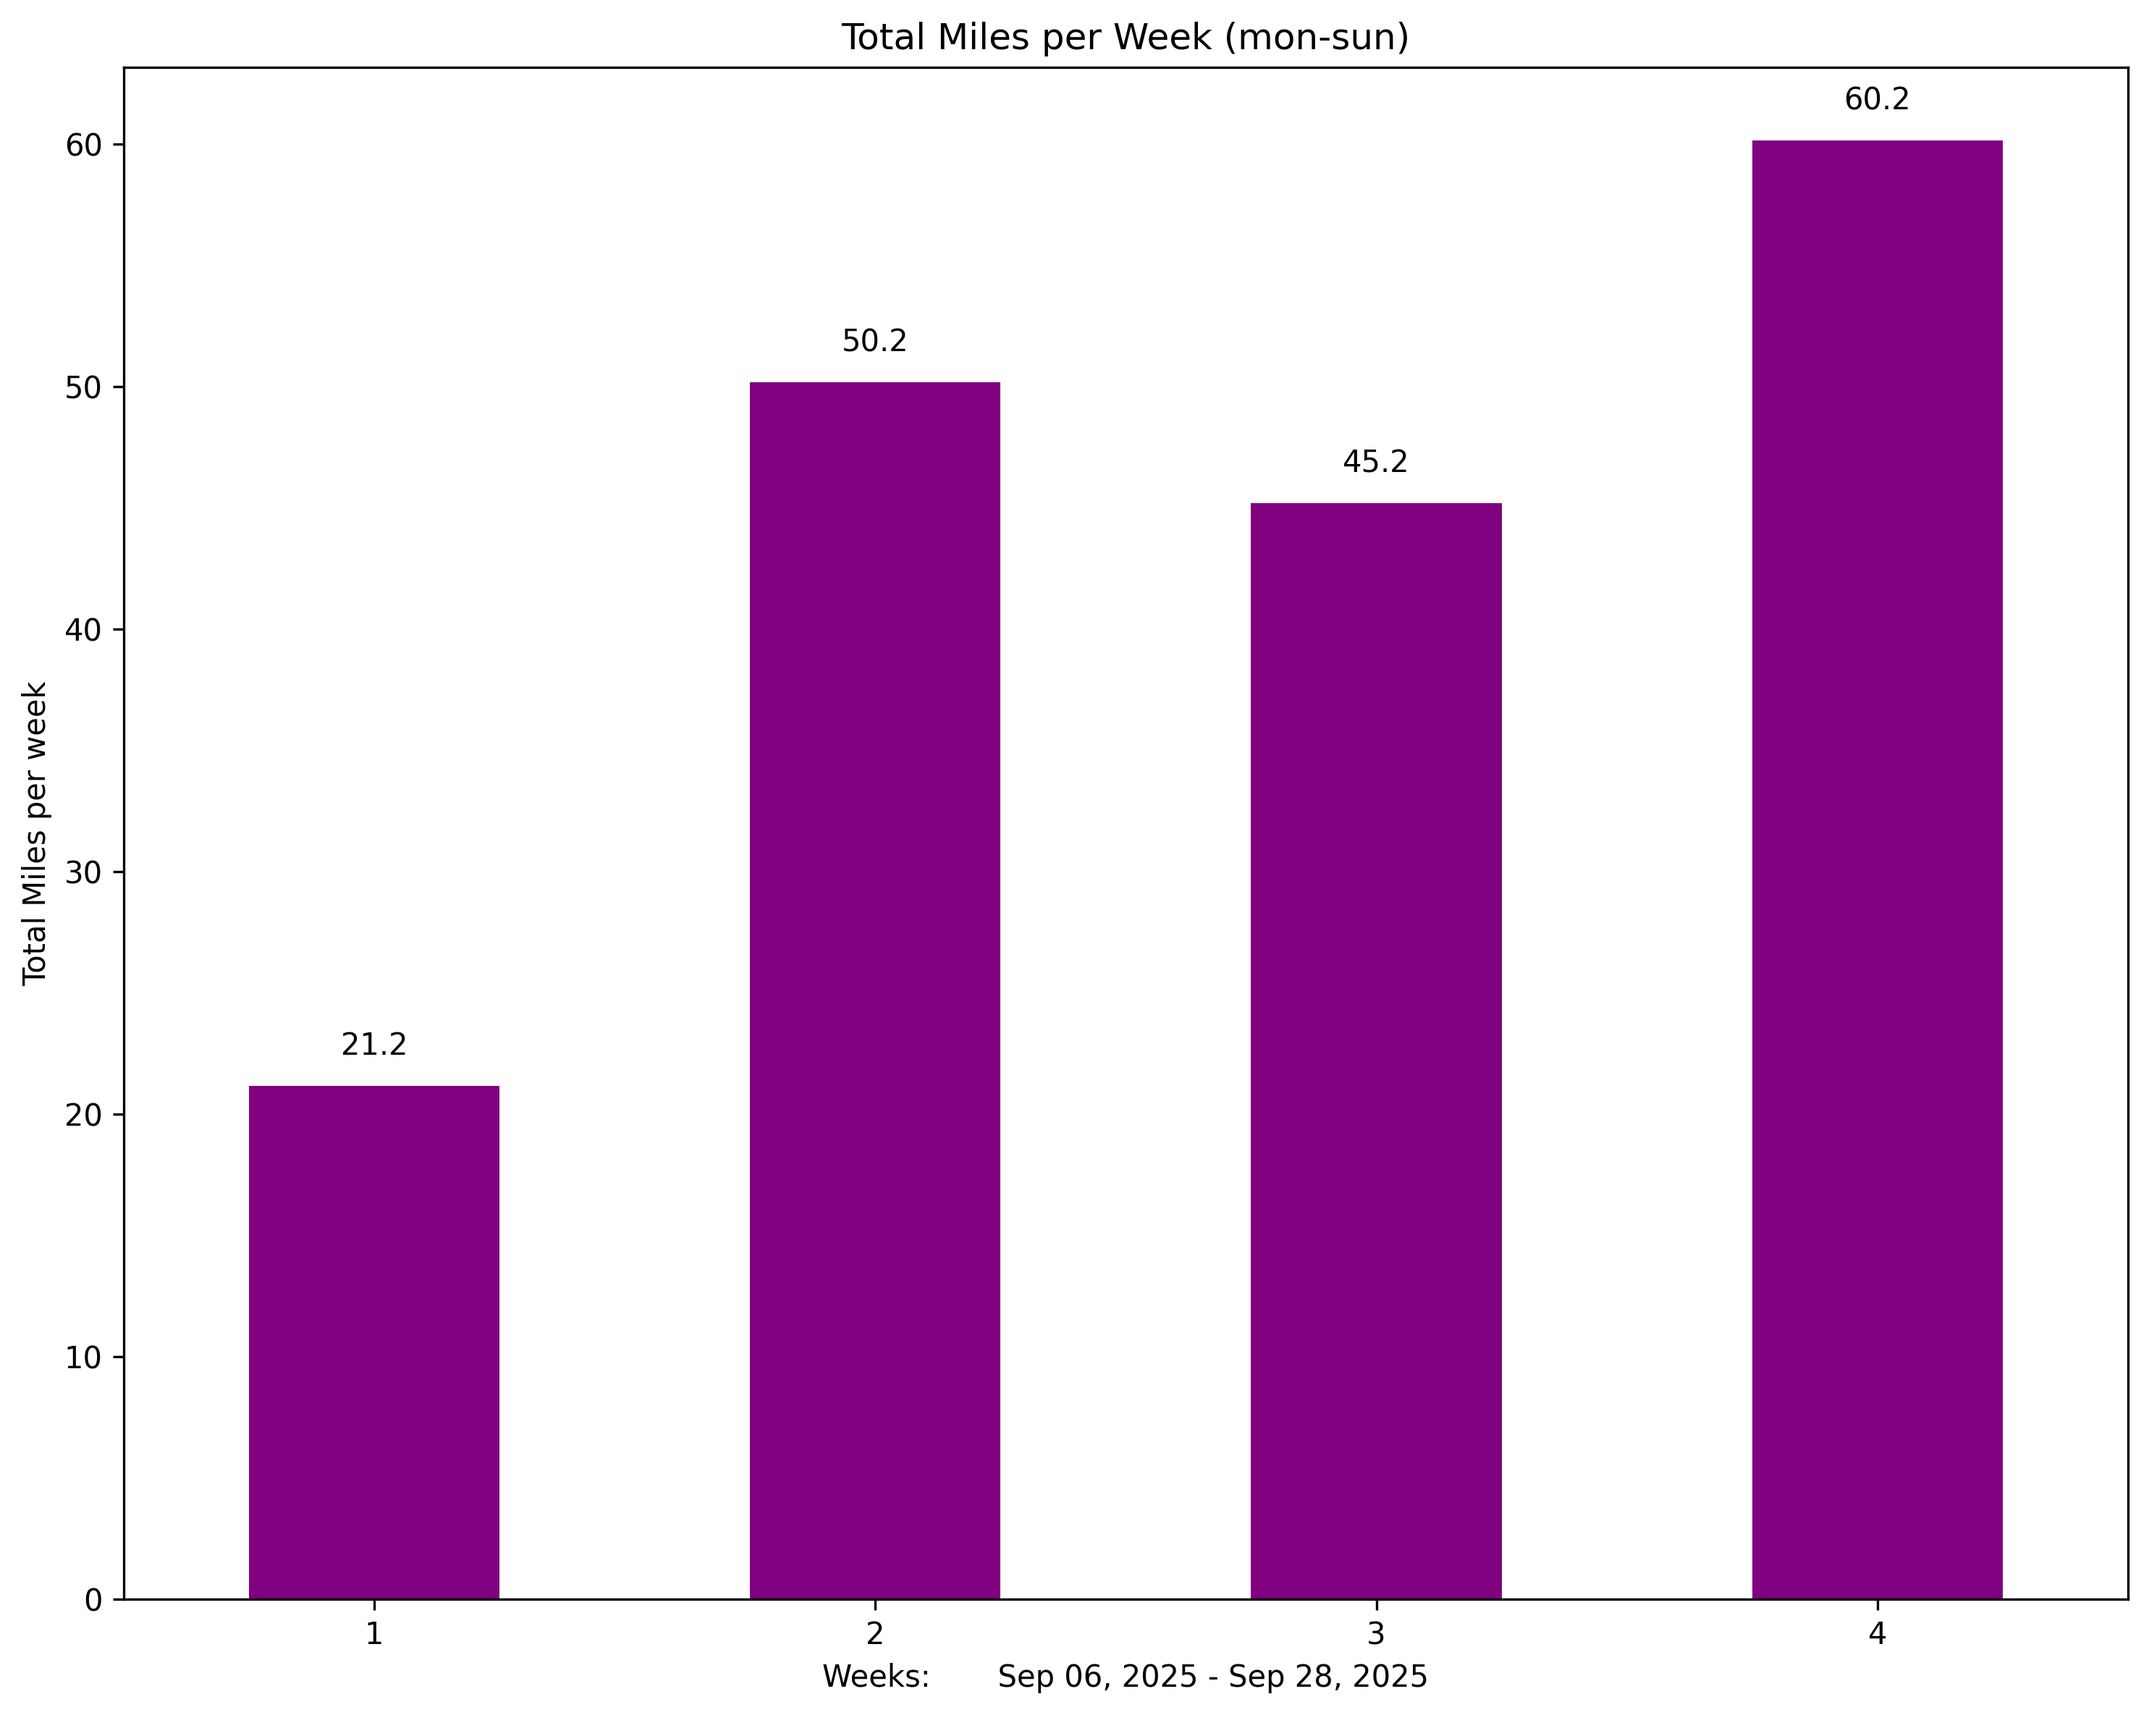
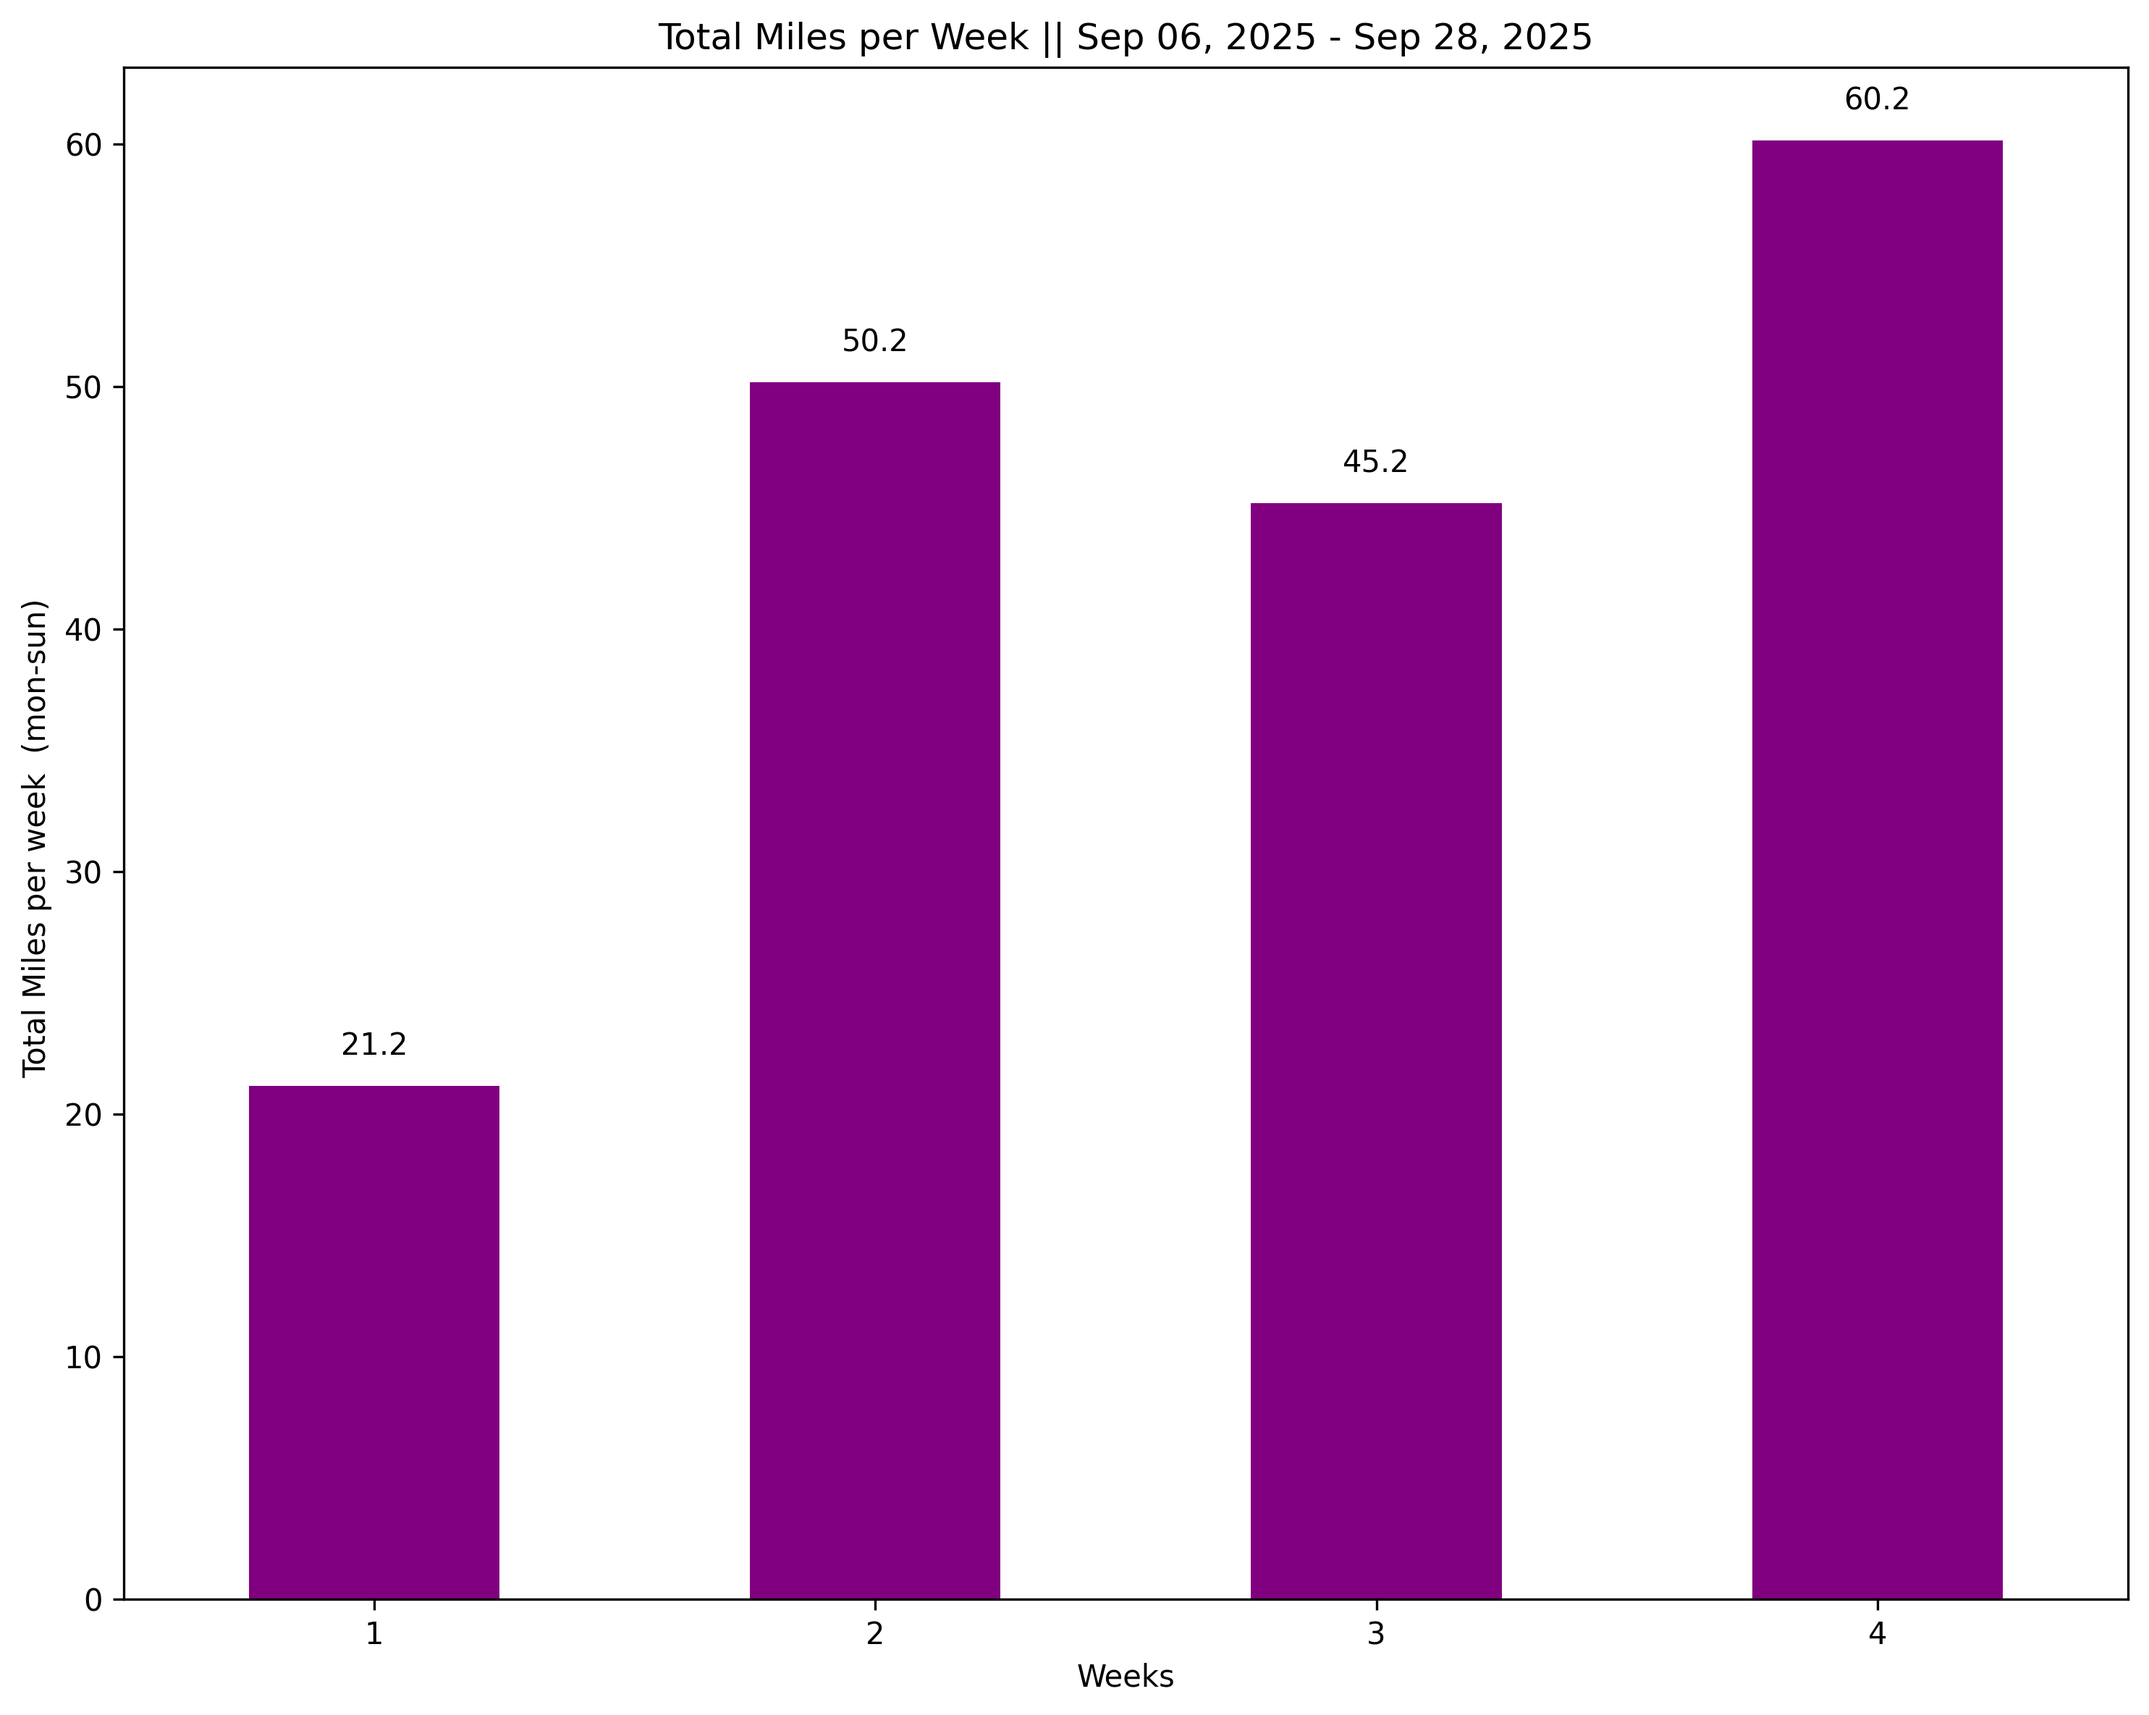
Made the monthly miles bar graph and fixed some of the format for the first one just so the graphs look a little better

diff --git a/bar_graph_functions.py b/bar_graph_functions.py
@@ -12,9 +12,9 @@ def weekly_mile_bar(data):
 
     plt.figure(figsize=(10,8))
     miles_per_week.plot(kind="bar", color="purple")
-    plt.title("Total Miles per Week (mon-sun)")
-    plt.xlabel(f"Weeks:       {start_date} - {end_date}")
-    plt.ylabel("Total Miles per week")
+    plt.title(f"Total Miles per Week || {start_date} - {end_date}")
+    plt.xlabel(f"Weeks")
+    plt.ylabel("Total Miles per week  (mon-sun) ")
     plt.xticks(rotation=0)
 
     for i, value in enumerate(miles_per_week):
@@ -31,4 +31,37 @@ def weekly_mile_bar(data):
     #Saves graph in the folder
     plt.savefig("output/visuals/weekly_miles.png", dpi=300, bbox_inches="tight")
     plt.show()
+
+#Bar Graph showing monthly total miles
+
+def monthly_mile_bar(data):
+    monthly_miles = data.groupby("Month")["Distance"].sum()
+    monthly_miles = monthly_miles[monthly_miles > 0]
+
+     #getting start and end dates
+    start_date = data["Date"].min().strftime("%b %d, %Y")
+    end_date = data["Date"].max().strftime("%b %d, %Y")
+
+    plt.figure(figsize=(10,8))
+    monthly_miles.plot(kind="bar", color="purple")
+    plt.title(f'Total Miles per Month || {start_date} - {end_date}')
+    plt.xlabel(f"Months")
+    plt.ylabel("Miles per month")
+    plt.xticks(rotation=0)
+
+    for i, value in enumerate(monthly_miles):
+        plt.text(
+            x=i,
+            y = value+1,
+            s = f"{value:.1f}",
+            fontsize=10,
+            color="black",
+            ha="center",
+            va="bottom"
+        )
+    plt.tight_layout()
+
+    plt.savefig("output/visuals/monthly_miles.png", dpi=300, bbox_inches="tight")
+    plt.show()
+
 

diff --git a/main.py b/main.py
@@ -58,7 +58,8 @@ data["Zones"] = pd.cut(data["Avg HR"], bins = zone_bins, labels = zone_labels, r
 #Lastly drop columns
 data = data[["Date", "Week", "Weekday", "Distance", "Calories",
              "Time", "Avg HR", "Max HR", "Avg Pace", "Best Pace",
-             "Zones", "Total Ascent", "Total Descent", "Steps"]]
+             "Zones", "Total Ascent", "Total Descent", "Steps", "Month"]]
 
 #creating first bar graph of weekly total miles
 bar_graph_functions.weekly_mile_bar(data)
+bar_graph_functions.monthly_mile_bar(data)
